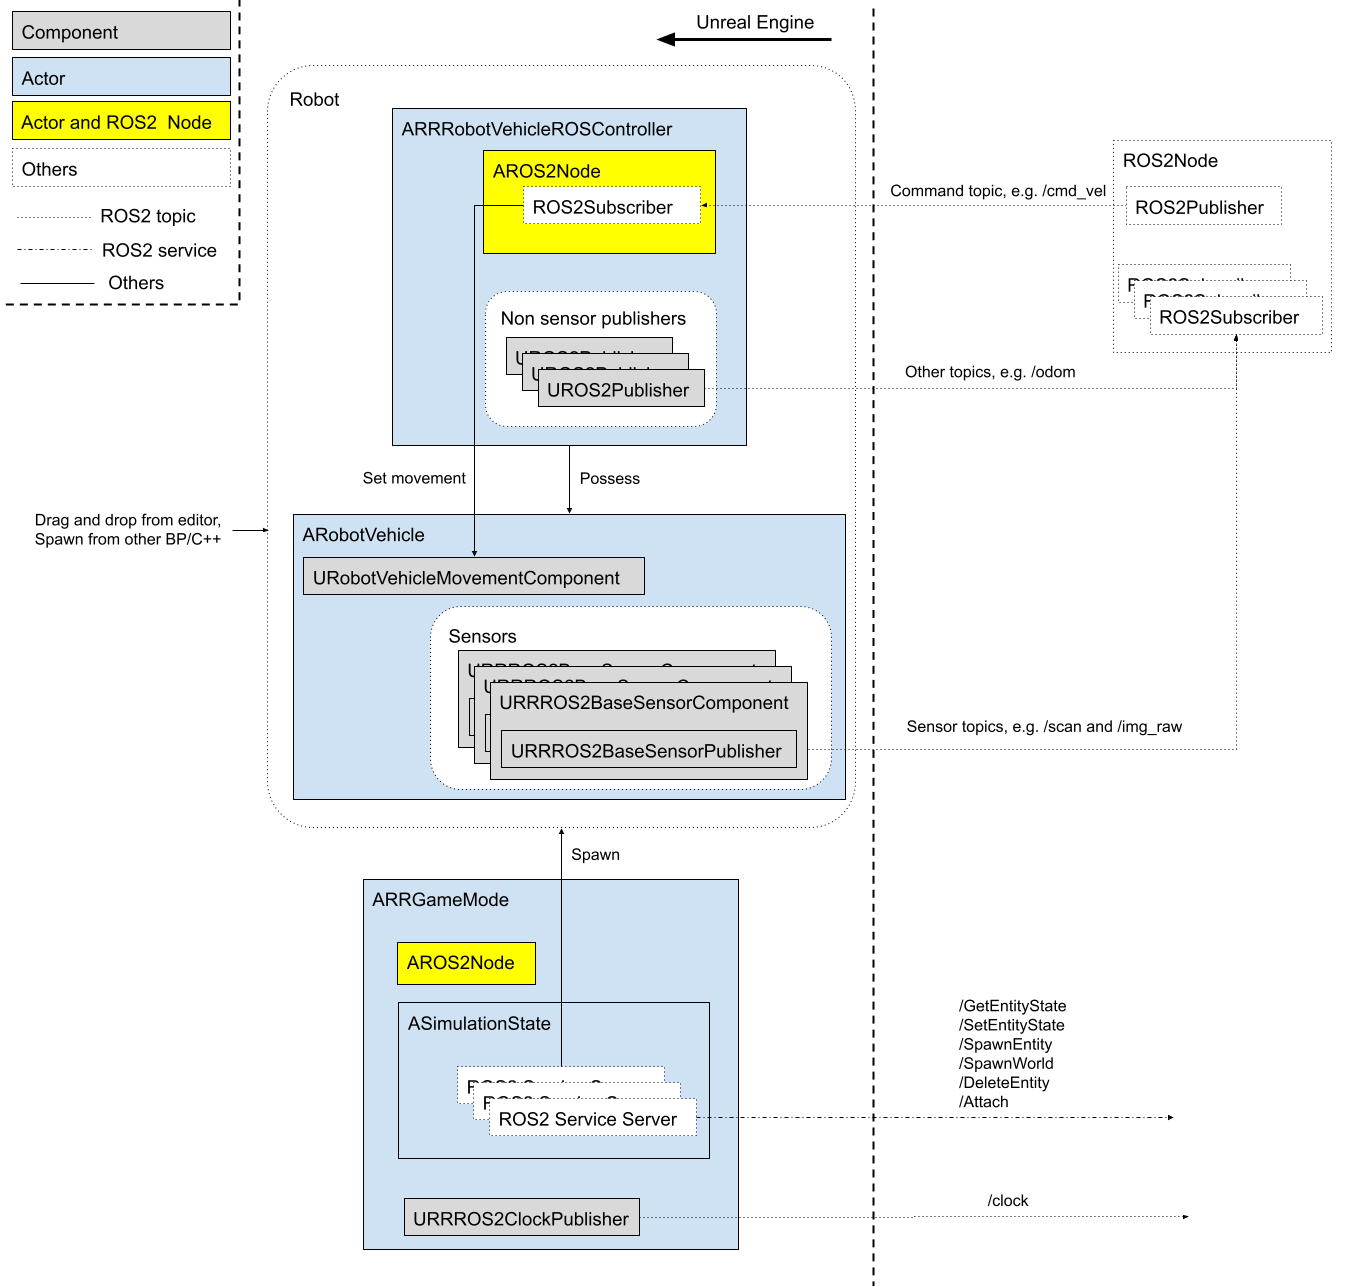
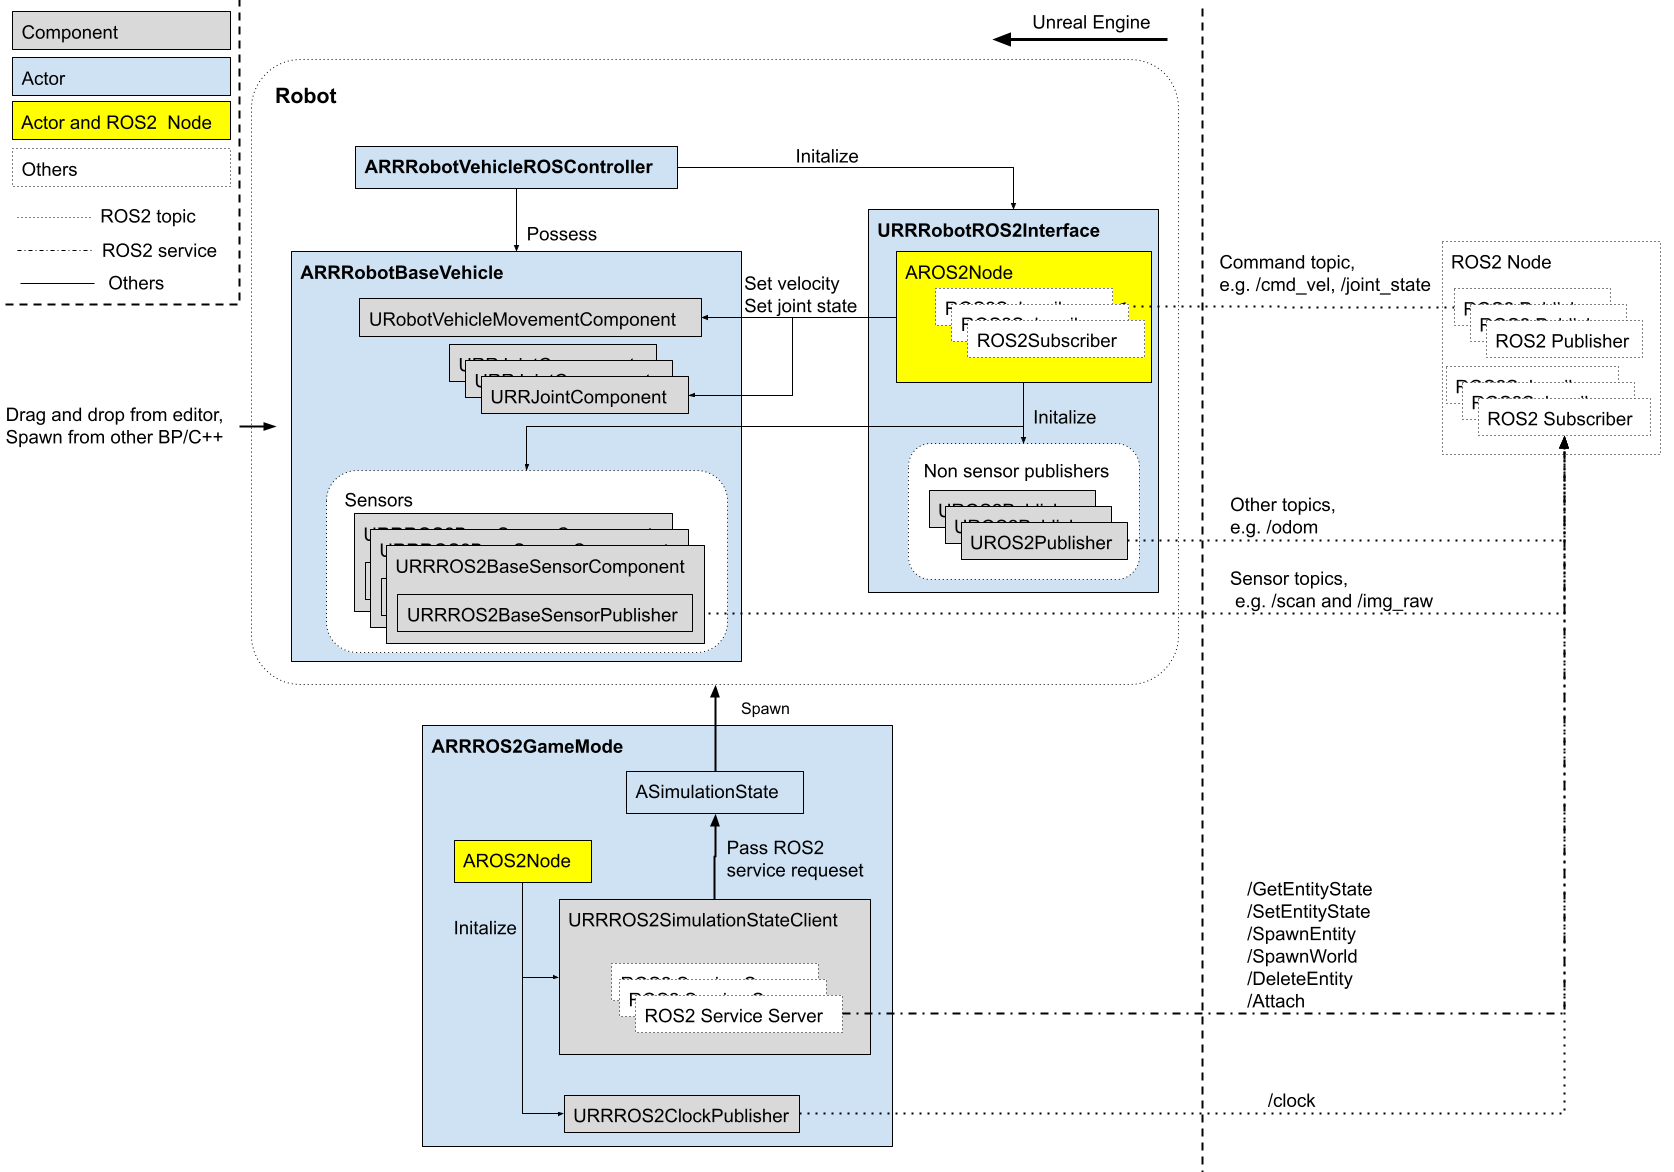
update doc sytle, update doc overview and components

diff --git a/docs/source/_static/css/style.css b/docs/source/_static/css/style.css
@@ -1,0 +1,5 @@
+@import url("theme.css");
+
+.wy-nav-content {
+    max-width: none;
+}

diff --git a/docs/source/conf.py b/docs/source/conf.py
@@ -58,6 +58,8 @@ templates_path = ['_templates']
 # -- Options for HTML output
 
 html_theme = 'sphinx_rtd_theme'
+# html_style = 'css/style.css'
+html_static_path = ['_static'] 
 
 # -- Options for EPUB output
 epub_show_urls = 'footnote'
@@ -68,3 +70,5 @@ source_suffix = {
     '.rst': 'restructuredtext',
     '.md': 'markdown',
 }
+def setup(app):
+    app.add_css_file('css/style.css')

diff --git a/docs/source/overview.rst b/docs/source/overview.rst
@@ -6,20 +6,37 @@ Overview
 Above figure shows typical way of creating Robot and GameMode with RapyutaSimulationPlugins and how expose ROS2 interfaces.
 Please check each components overview in :doc:`components` and :doc:`api`.
 
-\* This provide typical way of creating robot. You should be able to create Actor which has ROS interfaces with arbitrary architecture. 
+Robot
+-----------------
 
-`ARRRobotVehicleROSController <doxygen_generated/html/d6/d83/class_a_r_r_robot_vehicle_r_o_s_controller.html>`_ has `AROS2Node <https://rclue.readthedocs.io/en/devel/doxygen_generated/html/d6/dcb/class_a_r_o_s2_node.html>`_ and controls publisher and subscribers in the Robot. 
-URRRobotVehicleROSController subscribes command topic such as /cmd_vel and move robot by setting velocity to `URobotVehicleMovementComponent <doxygen_generated/html/d7/d01/class_u_robot_vehicle_movement_component.html>`_ in `ARobotVehicle <doxygen_generated/html/d7/d80/class_a_robot_vehicle.html>`_ 
-ARobotVehicle has `URRROS2BaseSensorComponent <doxygen_generated/html/d0/d58/class_u_r_r_r_o_s2_base_sensor_component.html>`_ which has `URRROS2BaseSensorPublisher <doxygen_generated/html/d5/d69/class_u_r_r_r_o_s2_base_sensor_publisher.html>`_.
+Mobile Robot Actor is composed of 
+`ARRRobotBaseVehicle <>`_, 
+`URRRobotROS2Interface <>`_ and 
+`ARRRobotVehicleROSController <doxygen_generated/html/d6/d83/class_a_r_r_robot_vehicle_r_o_s_controller.html>`_ .
+You can create your own robot by creating child class of follwoing components.
+Robot can be palced from UE interface, e.g drag and drop from UE Editor, or spawned from ROS2 /SpawnEntity srv.
 
-\* Following the Pawn and AIController structure in Unreal Engine, `Ref <https://docs.unrealengine.com/4.27/en-US/InteractiveExperiences/Framework/Pawn/>`_.
+- `URRRobotROS2Interface <>`_ has `AROS2Node <https://rclue.readthedocs.io/en/devel/doxygen_generated/html/d6/dcb/class_a_r_o_s2_node.html>`_ and controls publisher and subscribers in the Robot.
+- `ARRRobotBaseVehicle <>`_ has `URRROS2BaseSensorComponent <doxygen_generated/html/d0/d58/class_u_r_r_r_o_s2_base_sensor_component.html>`_, `URobotVehicleMovementComponent <doxygen_generated/html/d7/d01/class_u_robot_vehicle_movement_component.html>`_ and `URRJointComponent <>`_.
+    - `URRROS2BaseSensorComponent <doxygen_generated/html/d0/d58/class_u_r_r_r_o_s2_base_sensor_component.html>`_ is base class of ROS2 sensors. Other ROS2 sensor should be child class of this class, e.g. lidar, camera, etc. `URRROS2BaseSensorPublisher <doxygen_generated/html/d5/d69/class_u_r_r_r_o_s2_base_sensor_publisher.html>`_ which publish Sensor topic and is initialized from URRROS2Interface.
+    - `URobotVehicleMovementComponent <doxygen_generated/html/d7/d01/class_u_robot_vehicle_movement_component.html>`_ is base class of Robot movement. Other movement class should be child class of this class, e.g. differential drive, ackermann drive, etc. 
+    - `URRJointComponent <>`_ is representative of Joint of the robot which can be controlled from `URRROS2Interface <>`_.
+- `ARRRobotVehicleROSController <>`_ has authority to start/stop ROS2 publishers.
 
-`ARRGameMode <doxygen_generated/html/d1/dbb/class_a_r_r_game_mode.html>`_ provides ROS2 service interface to manipulate actors and `URRROS2ClockPublisher <doxygen_generated/html/d5/dc2/class_u_r_r_r_o_s2_clock_publisher.html>`_ to publish /clock.
-`ASimulationState <doxygen_generated/html/d2/dde/class_a_simulation_state.html>`_ has Entities and SpawnableEntities as member variable and only manipulate actors in those. 
+| \* This provide typical way of creating robot. You should be able to create Actor which has ROS interfaces with arbitrary architecture. 
+| \* Following the Pawn and AIController structure in Unreal Engine, `Ref <https://docs.unrealengine.com/4.27/en-US/InteractiveExperiences/Framework/Pawn/>`_.
 
-\* You need to use specific method to add actors to the variables if you want to manipulate from ROS2 services.
-Actors in the level at beginplay and spawned actor by ROS2 services are added automatically.
-You can change spawnable entities in level BP, by overwriting game mode and etc.
+GameMode
+-----------------
+
+`ARRROS2GameMode <>`_ has `ASimulationState <doxygen_generated/html/d2/dde/class_a_simulation_state.html>`_, URRROS2SimulationstateClient and `URRROS2ClockPublisher <doxygen_generated/html/d5/dc2/class_u_r_r_r_o_s2_clock_publisher.html>`_.
+
+- `URRROS2SimulationstateClient <>`_ provides ROS2 services interface to manipulate actors. Service implementation is in `ASimulationState <doxygen_generated/html/d2/dde/class_a_simulation_state.html>`_. Those two are separated to be used in client-server.
+- `URRROS2ClockPublisher <doxygen_generated/html/d5/dc2/class_u_r_r_r_o_s2_clock_publisher.html>`_ publish /clock.
+
+| \* `ASimulationState <doxygen_generated/html/d2/dde/class_a_simulation_state.html>`_ has `SpawnableEntitiTypes <>`_ and only able to spawn actor from classes in SpawnableEntitiTypes.
+| \* `ASimulationState <doxygen_generated/html/d2/dde/class_a_simulation_state.html>`_ has `Entities <>`_ and only able to manipulate actors Entities.
+| \* You need to use specific method to add actors to the variables if you want to manipulate from ROS2 services. Actors in the level at beginplay and spawned actor by ROS2 services are added automatically. You can change spawnable entities in level BP, by overwriting game mode and etc.
 
 
 .. list-table:: SimulationState ROS2 Service 
@@ -45,7 +62,7 @@ You can change spawnable entities in level BP, by overwriting game mode and etc.
      - spawn many actors from a list
    * - /SpawnWorld
      - `SpawnWorld.srv <https://github.com/rapyuta-robotics/UE_msgs/blob/devel/srv/SpawnWorld.srv>`_
-     - spawn world
+     - spawn world from `SDF <http://sdformat.org/>`_
    * - /DeleteEntity
      - `DeleteEntity.srv <https://github.com/rapyuta-robotics/UE_msgs/blob/devel/srv/DeleteEntity.srv>`_
      - return the actor actor state

diff --git a/docs/source/components.rst b/docs/source/components.rst
@@ -47,22 +47,24 @@ Sensors
 Robots
 ------
 
-| Robots has robot vehicle class and controller class.
-| Custom robot class should be created as child class of *RobotVehicle* or *RobotBaseVehicle* class. 
-| *RRRobotVehicleROSController* create ROS2Node and control all drive and sensor components in the *RobotVehicle* class.
+| Robots has robot vehicle class, ROS2 interface class and controller class.
+| Custom robot class should be created by creating child classes of those classes.
+| RobotVehicle has movement component, joints, and sensors.
+| RobotROS2Interface has ROS2 subscribers and publsihers and control RobotVehicle from ROS2Interface.
+| Robot controller controls start/stop ROS2Node. 
 
 **main C++ classes**
 
 - `ARobotBaseVehicle <doxygen_generated/html/df/dbc/class_a_robot_base_vehicle.html>`_: Base RobotBaseVehicle class. Most robot classes should inherit from this class. Has URobotVehicleMovementComponent and initializes sensors.
 - `ARobotVehicle <doxygen_generated/html/d7/d80/class_a_robot_vehicle.html>`_: RobotVehicle class that inherits from RobotBaseVehicle and uses a Skeletal Mesh as root component. Other robot class can inherit from this class.
-- `ARRRobotVehicleROSController <doxygen_generated/html/d6/d83/class_a_r_r_robot_vehicle_r_o_s_controller.html>`_: Base Robot ROS controller class. Other robot controller class should inherit from this class. This class owns ROS2Node and provide ROS2 interfaces to control robot such as Twist msg.
+- `URRRobotROS2Interface <>`_  Class provides ROS2Interfaces.  This class has `AROS2Node <https://rclue.readthedocs.io/en/devel/doxygen_generated/html/d6/dcb/class_a_r_o_s2_node.html>`_ and provide ROS2 interfaces to control robot such as Twist msg.
+- `ARRRobotVehicleROSController <doxygen_generated/html/d6/d83/class_a_r_r_robot_vehicle_r_o_s_controller.html>`_: Base Robot ROS controller class. Other robot controller class should inherit from this class. 
 - `ATurtlebotBurger <doxygen_generated/html/de/d76/class_a_turtlebot_burger.html>`_: Example of ARobotVehicle
-- `ATurtlebotROSController <doxygen_generated/html/dd/d8f/class_a_turtlebot_r_o_s_controller.html>`_: Example of ARRRobotVehicleROSController
+- `URRTurtlebotROS2Interface <>`_: Example of URRRobotROS2Interface
 
 **main Blueprint classes classes**
 
 - Turtlebot3: example of mobile robot.
-    - BP_TurtlebotROSController.uasset: inherit from C++ ARRRobotVehicleROSController. Example of construct robot controller with Blueprint.  
     - Models: Static and skeletal meshes and materials.
     - Physics: physics model with UDifferentialDriveComponent
         - BP_TurtlebotBurger: inherit from C++ ATurtlebotBurger and set static meshes and parameters.
@@ -97,7 +99,8 @@ Core
 - `ARRBaseActor <doxygen_generated/html/d9/d3d/class_a_r_r_base_actor.html>`_: Base actor class for all Rapyuta Sim actors
 - `URRActorCommon <doxygen_generated/html/df/d29/class_u_r_r_actor_common.html>`_: todo
 - Game objects
-    - `ARRGameMode <doxygen_generated/html/d1/dbb/class_a_r_r_game_mode.html>`_: GameMode with specific setting, asset loading and ROS2 interface via ClockPublisher and ASimulationState.
+    - `ARRROS2GameMode <>`_: Basic GameMode which provides basic ROS2 interfaces such as clock publisher and spawn services.
+    - `ARRGameMode <doxygen_generated/html/d1/dbb/class_a_r_r_game_mode.html>`_: GameMode with specific setting, asset loading.
     - `ARRGameState <doxygen_generated/html/d5/d01/class_a_r_r_game_state.html>`_: todo
     - `URRGameInstance <doxygen_generated/html/d1/d8e/class_u_r_r_game_instance.html>`_: This is a globally accessible instanced UObject that can store run-time data to be commonly accessed between levels and Scene instances.
     - `URRGameSingleton <doxygen_generated/html/d8/def/class_u_r_r_game_singleton.html>`_: todo
@@ -120,7 +123,8 @@ Tools
 
 **main C++ classes**
 
-- `ASimulationState <doxygen_generated/html/d2/dde/class_a_simulation_state.html>`_: Provide spawn/delete/attach/set/get ROS2 interfaces. Typically this class is initialized from GameMode.
+- `URRROS2SimulationstateClient <>`_: Provide spawn/delete/attach/set/get ROS2 interfaces. Typically this class is initialized from GameMode.
+- `ASimulationState <doxygen_generated/html/d2/dde/class_a_simulation_state.html>`_: Has implementation of spawn/delete/attach/set/get ROS2 interfaces. Communicate with URRROS2SimulationstateClient to execute manipulation.
 - `URRROS2ClockPublisher <doxygen_generated/html/d5/dc2/class_u_r_r_r_o_s2_clock_publisher.html>`_: Publish /clock topic. Typically this class is initialized from GameMode.
 - `OccupancyMapGenerator <doxygen_generated/html/d2/dde/class_a_occupancy_map_generator.html>`_: Generate 2D occupancy map for navigation/localization.
 - `URRROS2BaseSensorPublisher <doxygen_generated/html/d5/d69/class_u_r_r_r_o_s2_base_sensor_publisher.html>`_: Base Sensor Publisher class. Other sensor publisher class should inherit from this class.

diff --git a/docs/source/index.rst b/docs/source/index.rst
@@ -5,8 +5,12 @@ Welcome to RapyutaSimulationPlugins's documentation!
 `ROS2 <https://docs.ros.org/en/foxy/index.html#>`_ simulator with 
 `Unreal Engine <https://www.unrealengine.com/en-US/?lang=en-US>`_.
 
-RapyutaSimulationPlugins provide Actor and ActorComponents 
+RapyutaSimulationPlugins provide UE components 
 which provide feature to control Actor from ROS2, output simulated sensor to ROS2 and etc.
+
+This plugins support to configure distributed simulation by leveraging 
+the `UE's multiplayer feature <https://docs.unrealengine.com/4.27/en-US/InteractiveExperiences/Networking/>`_.
+Please check :doc:`distributed simulation` for details.
 
 This plugin belongs to a group of rclUE softwares which contains multiple repositories. 
 Please check `rclUE <https://rclue.readthedocs.io/en/devel/index.html>`_  to understand overview of rclUE related repositories.
@@ -15,9 +19,9 @@ A demo of our tool can be found in the `turtlebot examples of UE4 <https://githu
 
 Repositories
 ------------
-- Core features to bridge ROS2 and UE4: `<https://github.com/rapyuta-robotics/rclUE>`_
+- Core features to bridge ROS2 and UE: `<https://github.com/rapyuta-robotics/rclUE>`_
 - This repository:  `<https://github.com/rapyuta-robotics/RapyutaSimulationPlugins>`_
-- Turtlebot3 Simulation Example with UE4: `<https://github.com/rapyuta-robotics/turtlebot3-UE>`_ 
+- Turtlebot3 Simulation Example with UE: `<https://github.com/rapyuta-robotics/turtlebot3-UE>`_ 
 
 Contents
 --------
@@ -26,4 +30,5 @@ Contents
    
    overview
    components
-   api
+   distributed_simulation
+   ue_api

diff --git a/docs/source/distributed_simulation.rst b/docs/source/distributed_simulation.rst
@@ -1,0 +1,42 @@
+Distrubuted Simulation
+======================
+
+.. image:: 
+
+
+Client Server
+--------------
+UE client server overview. Replication and RPC.
+
+
+Basic idea
+------------
+ROS2 node only in the client.
+URRROS2SimulationstateClient initialize ROS2Component in client only.
+
+
+NetworkGameMode and NetworkPlayerController
+--------------------------------------------
+use simstate client. time sync and RPC of robots.
+
+
+Time synchronization
+--------------------
+
+Client Authority and Server Authority
+-------------------------------------
+
+Example
+---------
+Editor only setting
+- LargeMap. 
+    - GameMode
+    - Player setting
+    - 
+- sim state client has namespace
+- script to spawn and send cmd
+
+Todo
+--------
+- Server authority
+- Delay compensation

diff --git a/docs/source/ue_api.rst b/docs/source/ue_api.rst
@@ -1,7 +1,7 @@
-API
+UE API
 =====
 
-.. API:
+.. UE API:
 
 C++
 ------------
